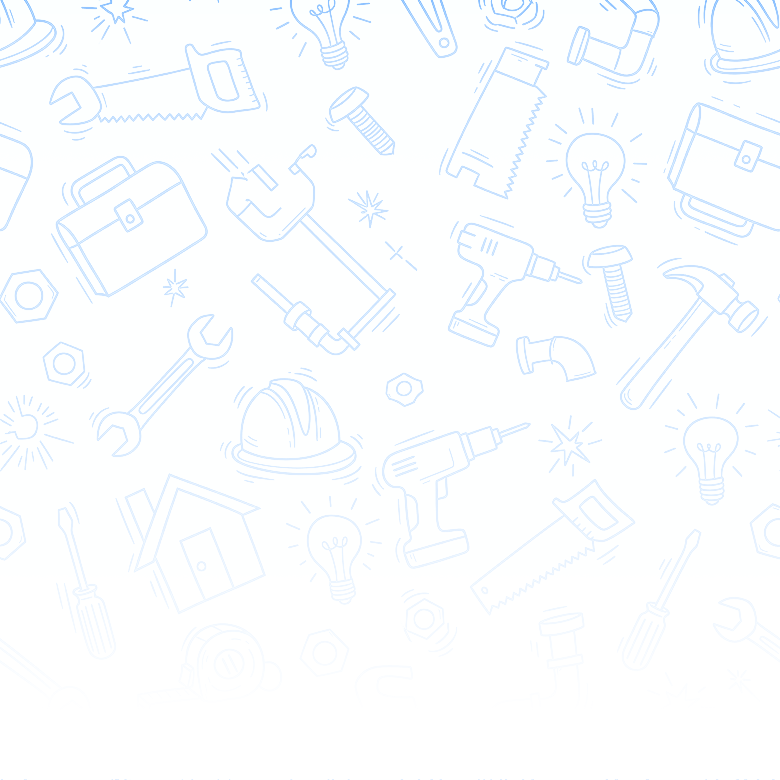
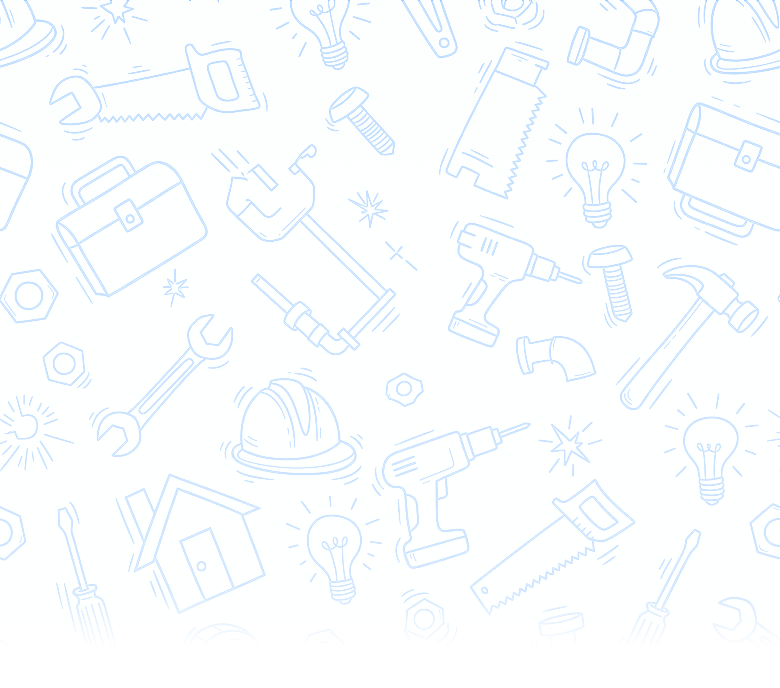
edited home top section

diff --git a/src/modules/ClientPages/Home/Mobile/mobHome.jsx b/src/modules/ClientPages/Home/Mobile/mobHome.jsx
@@ -220,7 +220,7 @@ const MobHome = () => {
       backgroundPosition: 'center',
       backgroundRepeat: 'no-repeat',
       width: '100%',
-      minHeight: '8vh', 
+      minHeight: '15vh', 
     }}
   >
     {/* Header */}
@@ -275,7 +275,7 @@ const MobHome = () => {
 
 
         {/* Services */}
-          <Typography sx={{ fontSize: 17, fontWeight: 600, mt: 1, mb: 1, px: 1.5 }}>
+          <Typography sx={{ fontSize: 17, fontWeight: 600, my: 1, px: 1.5 }}>
             Book your worker
           </Typography>
         <ServiceScrollBar />
